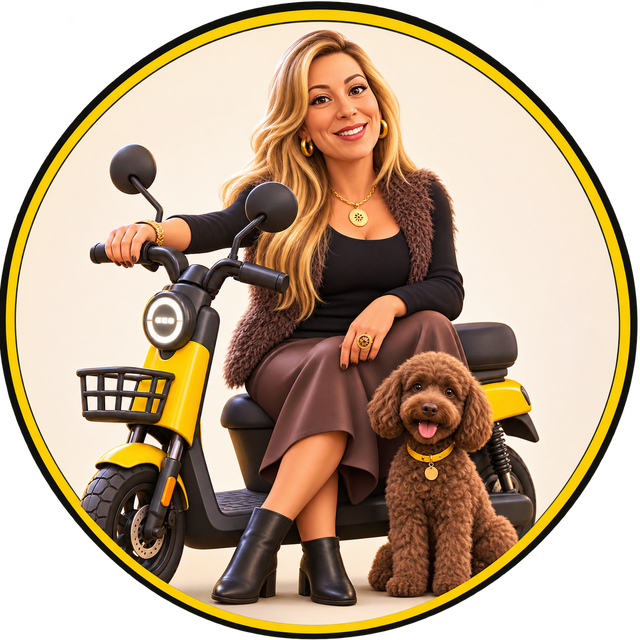
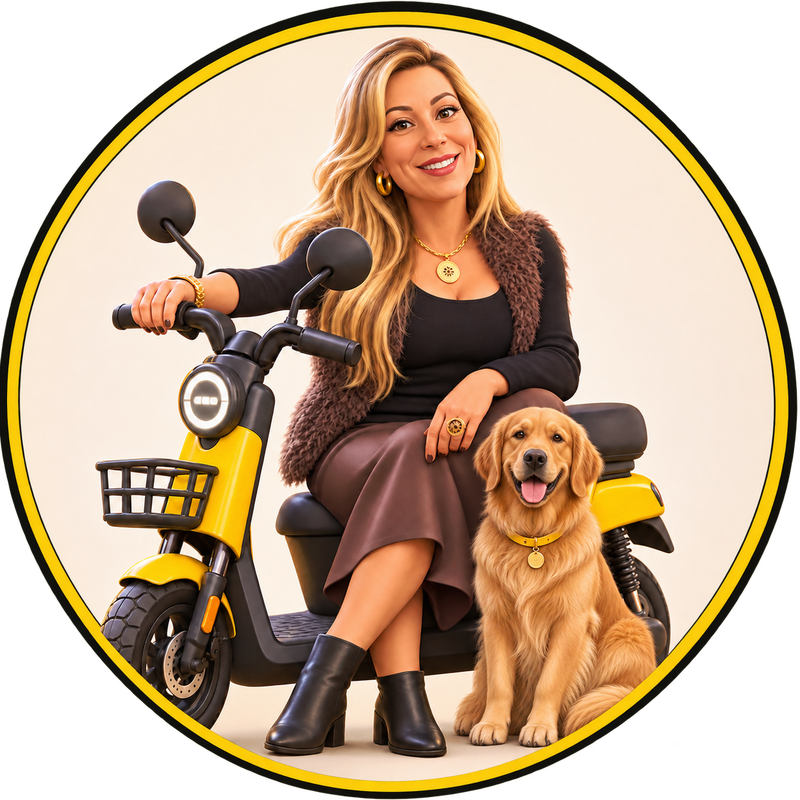
Selo grande com golden e frase em destaque
Claude-Session: https://claude.ai/code/session_01Mt8oJbv4kzoCT3XoLjctXq

diff --git a/index.html b/index.html
@@ -140,15 +140,15 @@ h2::after{content:"";display:block;width:44px;height:4px;border-radius:2px;backg
 .btn.grande::after{content:"";position:absolute;inset:-2px;border-radius:14px;border:2px solid var(--amarelo);pointer-events:none;
   animation:anel 2.8s cubic-bezier(.23,1,.32,1) infinite}
 @keyframes anel{0%{transform:scale(1);opacity:.8}70%,100%{transform:scale(1.07,1.3);opacity:0}}
-.selo-bloco{display:flex;align-items:center;gap:16px}
-.selo-redondo{flex:none;width:104px;height:104px;border-radius:50%;filter:drop-shadow(0 4px 12px rgba(0,0,0,.55))}
-.selo-redondo img{object-position:50% 50%}
-.selo-redondo .foto{width:100%;height:100%;border-radius:50%;border:0}
-.selo-redondo .foto{background:transparent}
-.selo-redondo .foto.vazia{border:2px dashed #4a4a4a;background:#222}
-.selo-redondo .ph-nome{font-size:.55rem}
-.selo-redondo .ph-tag{font-size:.7rem}
-.selo-bloco h2{margin:0}
+h2.centro{text-align:center}
+h2.centro::after{margin-left:auto;margin-right:auto}
+.selo-grande{width:min(82vw,380px);aspect-ratio:1/1;margin:22px auto 18px;filter:drop-shadow(0 10px 26px rgba(0,0,0,.6))}
+.selo-grande .foto{width:100%;height:100%;border-radius:50%;background:transparent}
+.selo-grande .foto.vazia{border:3px dashed #4a4a4a;background:#222}
+.chamada{font-size:1.55rem;font-weight:800;line-height:1.25;text-align:center;margin:0 auto 10px;max-width:22em;text-wrap:balance}
+.chamada em{font-style:normal;color:var(--amarelo)}
+.chamada2{font-size:1.15rem;text-align:center;color:#d6d6d6;margin:0 0 24px}
+@media (min-width:600px){.chamada{font-size:2rem}}
 /* visualizador em tela grande (lightbox) */
 .lb{position:fixed;inset:0;z-index:80;background:rgba(0,0,0,.93);display:flex;flex-direction:column;align-items:center;justify-content:center;
   padding:56px 12px 20px;animation:lbfundo .2s ease-out}
@@ -392,13 +392,10 @@ footer .contatos small{display:block;color:var(--amarelo);font-size:.75rem;text-
 <!-- 9. FEEDBACKS -->
 <section id="feedbacks">
   <div class="wrap">
-    <div class="selo-bloco">
-      <div class="selo-redondo" id="seloSatisfacao"></div>
-      <div>
-        <h2 id="feedbacksTitulo">Avaliações de clientes</h2>
-      </div>
-    </div>
-    <p class="lead" id="feedbacksTexto"></p>
+    <h2 id="feedbacksTitulo" class="centro">Avaliações de clientes</h2>
+    <div class="selo-grande" id="seloSatisfacao"></div>
+    <p class="chamada" id="feedbacksTexto"></p>
+    <p class="chamada2" id="feedbacksTexto2"></p>
     <div class="avalie">
       <div class="estrelas" aria-hidden="true">★★★★★</div>
       <p>Gostou do nosso atendimento? Sua avaliação ajuda muito!</p>
@@ -732,7 +729,15 @@ footer .contatos small{display:block;color:var(--amarelo);font-size:.75rem;text-
   /* ---- 9. feedbacks: carrossel automático de vídeos e fotos ---- */
   var FB = DADOS.feedbacks;
   if (FB.titulo) $("feedbacksTitulo").textContent = FB.titulo;
-  $("feedbacksTexto").textContent = FB.texto;
+  (function () {
+    var alvo = $("feedbacksTexto"), pal = FB.destaques || [];
+    var partes = pal.length ? FB.texto.split(new RegExp("(" + pal.join("|") + ")", "gi")) : [FB.texto];
+    partes.forEach(function (t) {
+      if (pal.some(function (w) { return w.toLowerCase() === t.toLowerCase(); })) alvo.appendChild(h("em", { text: t }));
+      else alvo.appendChild(document.createTextNode(t));
+    });
+    $("feedbacksTexto2").textContent = FB.texto2 || "";
+  })();
   $("seloSatisfacao").appendChild(foto(L.selo, "Selo Mega Motors"));
   var carrossel = $("videosClientes");
   var lista = FB.itens;
@@ -935,7 +940,7 @@ footer .contatos small{display:block;color:var(--amarelo);font-size:.75rem;text-
       });
     }, { threshold: 0.08 });
     var n = 0;
-    Array.prototype.forEach.call(document.querySelectorAll("section h2, #gradeProdutos .card, #gradeSeminovos .card, .beneficio, .fotos2 figure, .info > div"), function (el) {
+    Array.prototype.forEach.call(document.querySelectorAll("section h2, .selo-grande, .chamada, #gradeProdutos .card, #gradeSeminovos .card, .beneficio, .fotos2 figure, .info > div"), function (el) {
       el.classList.add("rev");
       el.style.transitionDelay = (n++ % 4) * 50 + "ms";
       io.observe(el);

diff --git a/dados.js b/dados.js
@@ -139,7 +139,10 @@ const DADOS = {
   /* ---------- FEEDBACKS DE CLIENTES ---------- */
   feedbacks: {
     titulo: "Avaliações de clientes",
-    texto: "Prezamos pela sua felicidade e pela sua satisfação com o nosso produto. Veja alguns clientes que já rodam com a Mega Motors.",
+    // Frase grande embaixo do selo. As palavras em "destaques" ficam em amarelo.
+    texto: "Prezamos pela sua felicidade e pela sua satisfação com o nosso produto ❤",
+    destaques: ["felicidade", "satisfação"],
+    texto2: "Veja quem já roda com a Mega Motors 🛵⚡🐶",
     // Carrossel automático: vídeos e fotos de clientes passam sozinhos (pausa quando alguém toca ou dá play).
     // tipo "video": "arquivo" fica na pasta "videos"; "capa" é a imagem antes do play (opcional).
     // tipo "foto": "arquivo" fica na pasta "imagens". Para adicionar, copie uma linha.
